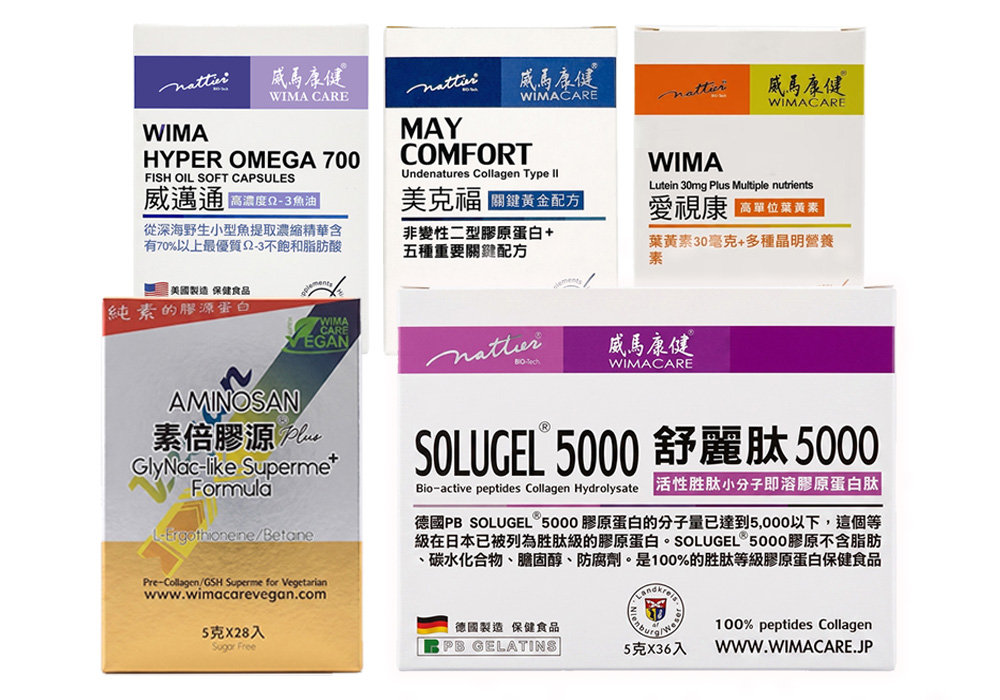
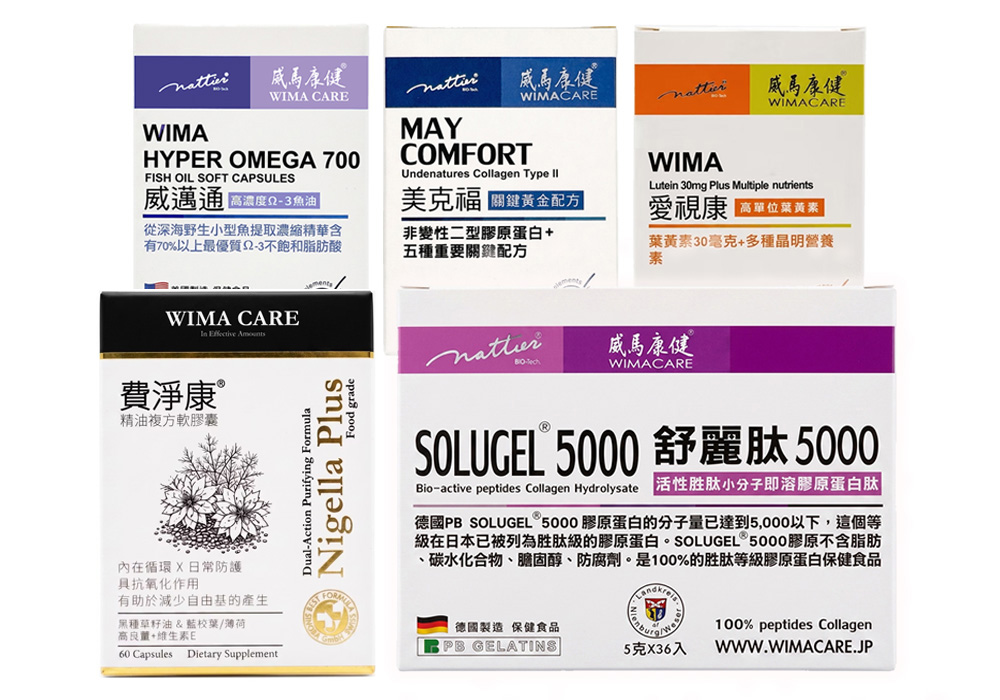
Add chain drugstore catalog and update product links

Changed region(s): [[0.093, 0.39, 0.372, 0.99]]

diff --git a/src/styles/home.css b/src/styles/home.css
@@ -399,8 +399,21 @@
   background: var(--brand-primary);
 }
 
-.home-brand-card.is-wine {
-  background: var(--brand-wine);
+.home-brand-card.is-vegan {
+  color: var(--brand-primary);
+  background: #6a9f49;
+}
+
+.home-brand-card.is-vegan h3 {
+  color: #ffffff;
+}
+
+.home-brand-card.is-vegan p {
+  color: #c9d1cd;
+}
+
+.home-brand-card.is-vegan a {
+  color: var(--brand-highlight);
 }
 
 .home-brand-card-top {
